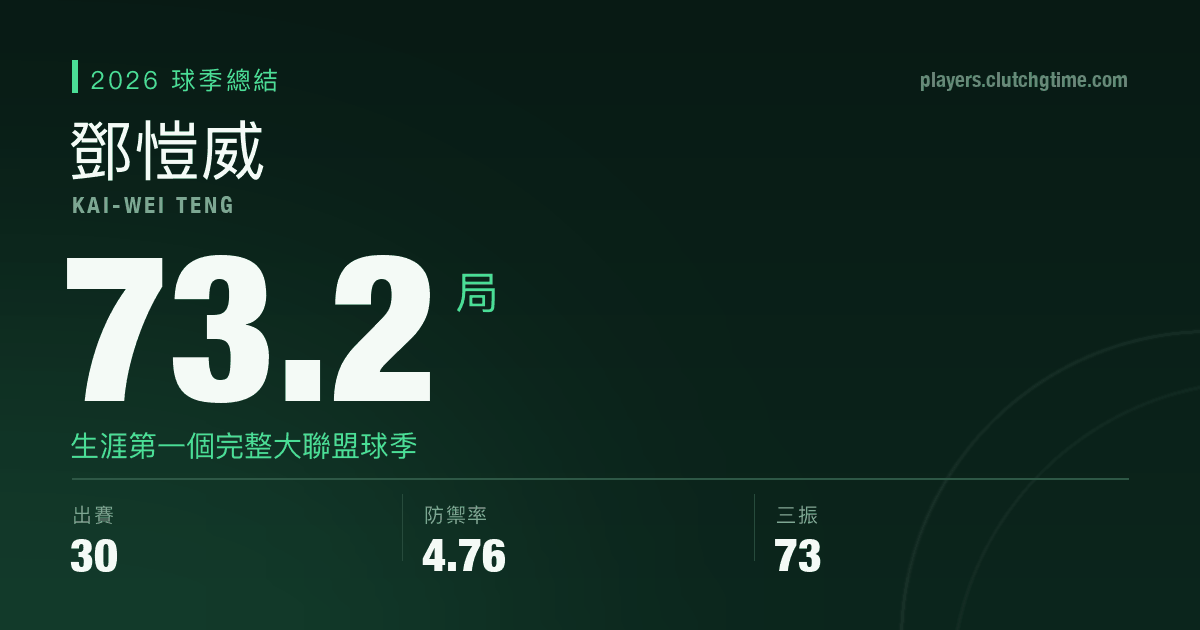
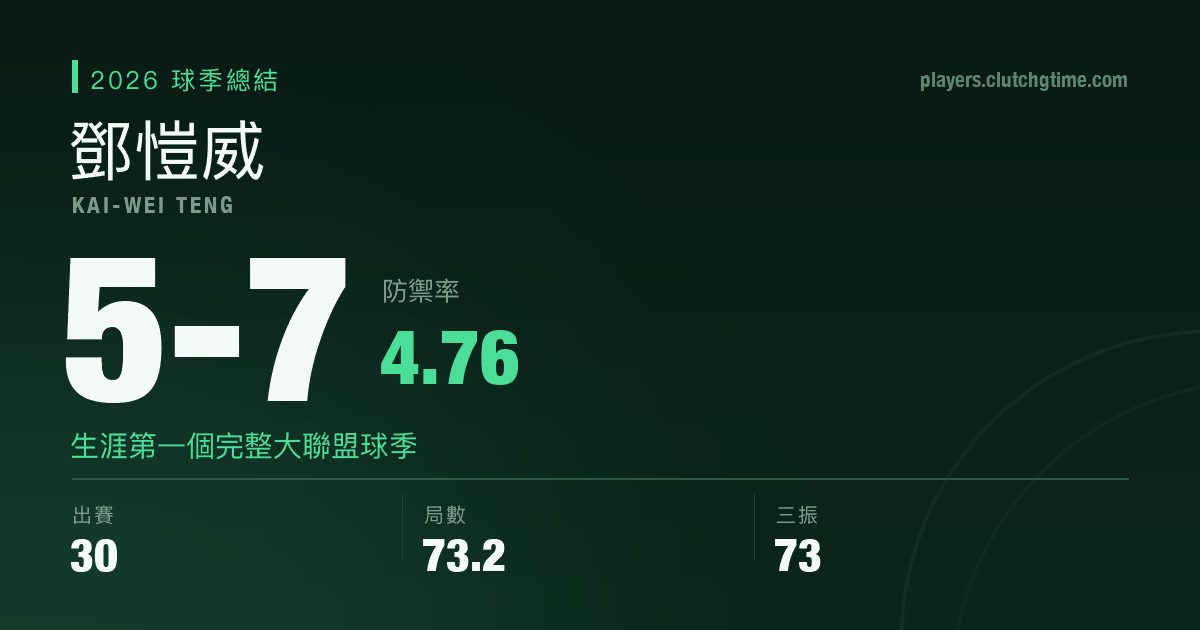
feat: 投手封面圖主角數字改成勝-負-防禦率 / 救援-中繼-防禦率
原本鄧愷威那張的主角是「73.2 局」—— 局數講的是工作量不是成績。改成投手看得懂
的那一行:先發用勝敗、牛棚用救援/中繼,後面都接防禦率(標籤在上、數字在下貼在
主角右邊,湊成一個視覺單位;寫成「5-7-4.76」一長串讀者會分不出哪個是哪個)。

先發或後援的判定有兩個資料坑:
- **不能看 season_stats 的 gs** —— npb.jp 的季賽成績頁幾乎都回報 0,徐若熙、
  孫易磊、徐翔聖、陳睦衡都是先發卻寫 gs=0。改用逐場的 started
- **中繼只有逐場有** —— season_stats 的 hld 全站都是 0;救援則相反,sv 是可信的
  而且不受「逐場只留最近 60 場」影響,所以用 season_stats 的

沒抓過完整當季逐場的球員會退回 players.json 的逐場(最近 60 場,判先發/後援夠用)
—— 第一版忘了這個,潘文輝(0 先發 3 救援)因為讀不到檔案被判成先發、主角寫成
「2-0」。

三段判定:先發過半→勝敗;先發占三分之一以上的一人分飾兩角型→也用勝敗(張弘稜
27 場先發 13 場卻只有 1 次救援,寫「1 救」會失真);其餘有救援或中繼→救援/中繼,
兩者皆無→退回勝敗(「0救0中」當主角沒有意義)。

防禦率現在上下各出現一次,底部數據帶把它濾掉了。

Changed region(s): [[0.0308, 0.3921, 0.4317, 0.6635], [0.3392, 0.7841, 0.4317, 0.9048], [0.185, 0.6937, 0.2158, 0.7238]]

diff --git a/scripts/make_season_og.py b/scripts/make_season_og.py
@@ -41,6 +41,41 @@ def numfont(size, black=True):
     return ImageFont.truetype(NUM_PATH, size, index=NUM_BLACK if black else NUM_BOLD)
 
 
+def pitcher_hero(slug, year, level, st, player=None):
+    """投手的主角數字:先發看勝敗、牛棚看救援/中繼,後面都接防禦率。
+
+    先發場次**不看 season_stats 的 gs** —— npb.jp 的季賽成績頁回報的 gs 幾乎都是 0
+    (徐若熙、孫易磊、徐翔聖都是先發卻寫 0),逐場的 started 才是準的。
+    中繼同理:season_stats 的 hld 全站都是 0,只有逐場有。救援則相反,season_stats
+    的 sv 是可信的,而且不受「逐場只留最近 60 場」影響,所以用它。
+    """
+    games = []
+    try:                       # 完整當季逐場(fetch_gamelogs --current 抓的)
+        games = json.loads((ROOT / "public" / "data" / "gamelogs" / f"{slug}.json")
+                           .read_text(encoding="utf-8"))[str(year)][level]
+    except Exception:
+        # 沒抓過完整當季就退回 players.json 的逐場(只有最近 60 場,但夠判先發/後援)
+        games = [g for g in ((player or {}).get("game_logs") or [])
+                 if g.get("level") == level and str(g.get("date", ""))[:4] == str(year)]
+    starts = sum(1 for g in games if g.get("started")) if games else (st.get("gs") or 0)
+    total = len(games) if games else (st.get("g") or 0)
+    sv = st.get("sv") or 0
+    hld = sum(1 for g in games if g.get("hold"))
+    era = st.get("era")
+    wl = {"big": f"{st.get('w') or 0}-{st.get('l') or 0}", "unit": "", "era": era}
+    if total and starts * 2 >= total:
+        return wl
+    # 先發占三分之一以上的「一人分飾兩角」型,用勝敗比用救援點有代表性
+    # (張弘稜 27 場先發 13 場、只有 1 次救援成功,主角寫「1 救」會失真)
+    if total and starts * 3 >= total:
+        return wl
+    if sv or hld:
+        big = " ".join([x for x in (f"{sv}救" if sv else "", f"{hld}中" if hld else "") if x])
+        return {"big": big, "unit": "", "era": era}
+    # 牛棚但沒有救援也沒有中繼 —— 主角寫「0救0中」沒有意義,退回勝敗
+    return wl
+
+
 def support_stats(p, st):
     """支撐數據由資料算,不手寫 —— 手寫會跟球季最終數字對不起來。"""
     if p.get("role") == "pitcher":
@@ -116,6 +151,12 @@ def draw(path, name, roman, year, cover, stats):
     if unit:
         # 單位貼在數字上緣,放在基線會像掉下去
         d.text((M - 6 + bw + 14, bbox[1] + 6), unit, font=font(44, 2), fill=ACCENT)
+    # 投手的防禦率貼在主角數字右邊(標籤在上、數字在下),湊成「勝-負-防禦率」
+    # 一個視覺單位;寫成一長串「5-7-4.76」讀者會分不出哪個是哪個
+    if cover.get("era"):
+        ex = M - 6 + bw + 26
+        d.text((ex, bbox[1] + 14), "防禦率", font=font(26, 1), fill=MUTED)
+        d.text((ex - 2, bbox[1] + 52), str(cover["era"]), font=numfont(76), fill=ACCENT)
     if cover.get("note"):
         d.text((M - 2, bbox[3] + 22), cover["note"], font=font(29, 1), fill=ACCENT)
 
@@ -146,6 +187,10 @@ def main():
     n = 0
     for rv in reviews:
         p = players.get(rv["slug"])
+        if p and p.get("role") == "pitcher" and rv.get("cover"):
+            st0 = (p.get("season_stats") or {}).get(rv.get("level") or "MLB") or {}
+            rv = {**rv, "cover": {**rv["cover"],
+                                  **pitcher_hero(rv["slug"], rv["year"], rv.get("level") or "MLB", st0, p)}}
         if not p or not rv.get("cover"):
             print(f"  跳過 {rv['slug']}（{'找不到球員' if not p else '沒有 cover 設定'}）")
             continue
@@ -155,8 +200,9 @@ def main():
             continue
         en = p.get("name_en") or ""
         roman = en if any(c.isascii() and c.isalpha() for c in en) else (slugs.get(str(p["id"])) or "").replace("-", " ")
-        # 主角數字不要在右側面板再出現一次(鄧愷威的 73.2 局本來兩邊都有)
-        stats = [x for x in support_stats(p, st) if str(x[1]) != str(rv["cover"]["big"])]
+        # 主角那幾個數字不要在底部數據帶再出現一次(防禦率本來上下各一個)
+        shown = {str(rv["cover"].get("big")), str(rv["cover"].get("era"))}
+        stats = [x for x in support_stats(p, st) if str(x[1]) not in shown]
         draw(OUT_DIR / f"{rv['slug']}-{rv['year']}.png", p["name"], roman, rv["year"],
              rv["cover"], stats)
         n += 1
